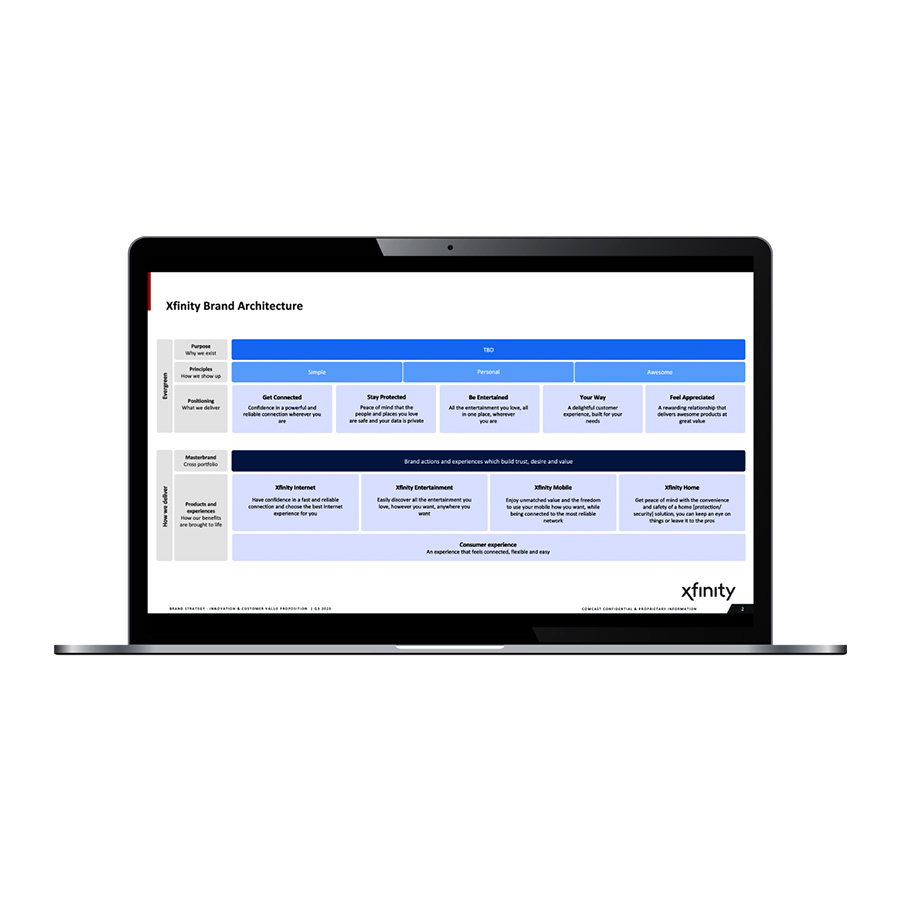
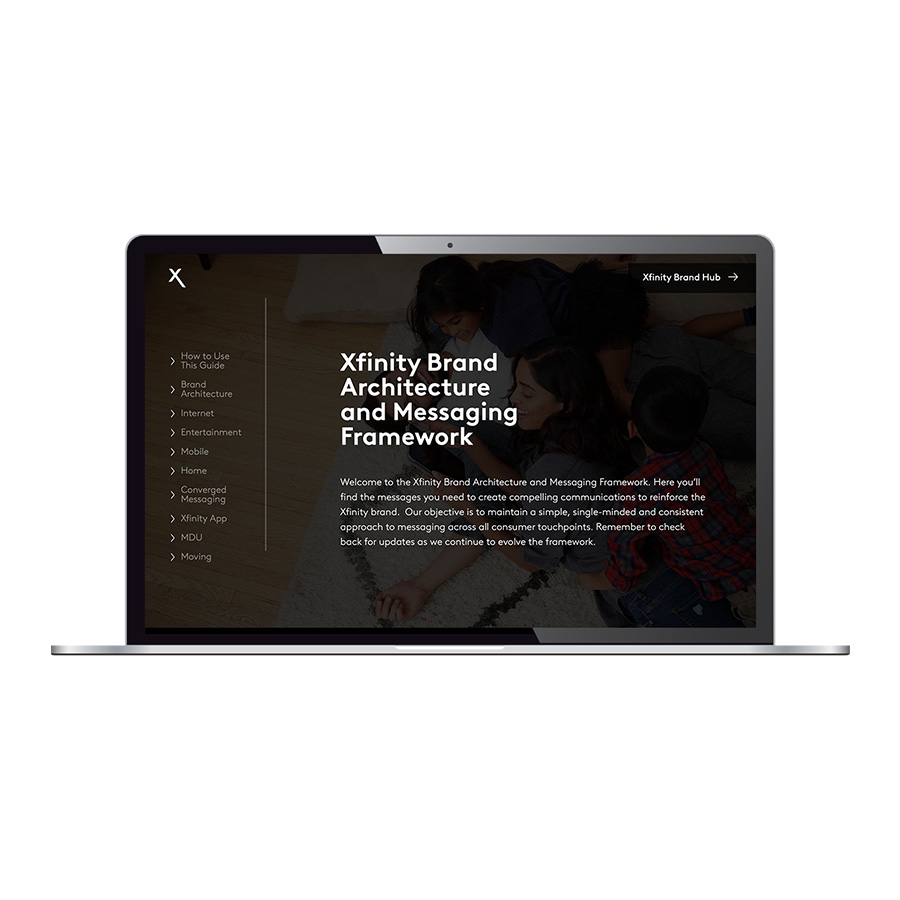
update brand messaging images/links, move from downloads to contact

diff --git a/design/contact.php b/design/contact.php
@@ -4,6 +4,13 @@
           <p>Discover additional assets in the links below.</p>
           <div class="tiles">
 
+            <div class="tile-row" id="download-messaging-guidelines">
+              <h3>Brand Messaging Framework</h3>
+              <img src="images/downloads/brand-messaging.jpg" alt="" />
+              <a class="button resource-explore" href="messaging" target="_blank"><span>Explore <span class="ah">Messaging Guidelines</span></span></a>
+              <p>&nbsp;</p>
+            </div><!-- /.download-row -->
+
             <div class="tile-row" id="resource-tv-ad-repo">
               <h3>Xfinity TV Ad Repository</h3>
               <img src="images/downloads/tv_repository.jpg" alt="" />

diff --git a/design/downloads.php b/design/downloads.php
@@ -2,12 +2,6 @@
           <h1>Downloads</h1>
           <div class="tiles">
 
-            <div class="tile-row" id="download-messaging-guidelines">
-              <h3>Brand Messaging Framework</h3>
-              <img src="images/downloads/brand-messaging.jpg" alt="" />
-              <a class="button resource-explore" href="messaging" target="_blank"><span>Explore <span class="ah">Messaging Guidelines</span></span></a>
-            </div><!-- /.download-row -->
-
             <div class="tile-row" id="download-xfinity-logo">
               <h3>Xfinity Logo</h3>
               <img src="images/downloads/logo.png" alt="" />
